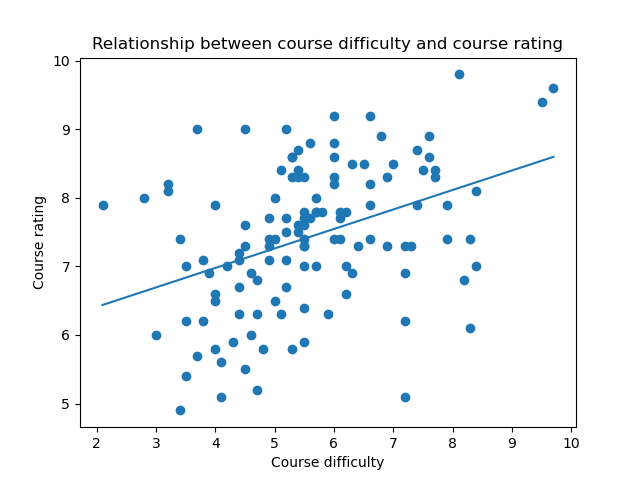
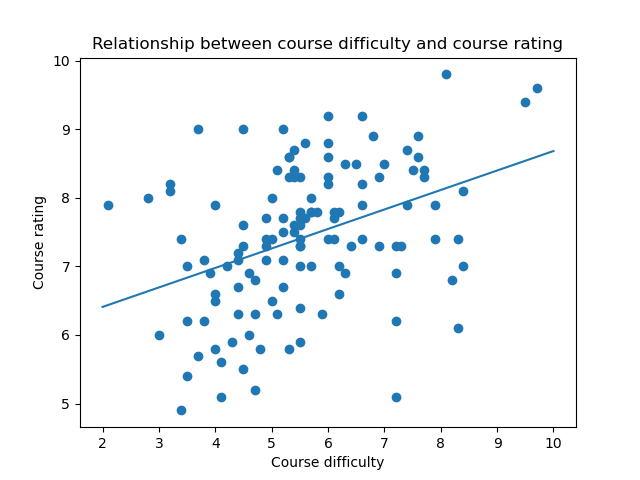
Update

diff --git a/ratings_analysis.py b/ratings_analysis.py
@@ -47,8 +47,15 @@ df_difficulty_percentiles.to_csv('difficulty_percentiles.csv')
 xset = df_ratings['course_difficulty']
 yset = df_ratings['course_rating']
 plt.scatter(xset,yset)
-plt.plot(np.unique(xset), np.poly1d(np.polyfit(xset, yset, 1))(np.unique(xset))) # From user '1"' at 
-# https://stackoverflow.com/a/31800660/13097194
+# The following lines of code determine the best fit line of the stock through a
+#linear regression analysis. 
+xreg = xset
+xreg = sm.add_constant(xreg)
+output = sm.OLS(yset,xreg)
+results = output.fit()
+xspace = np.linspace(2,10,2) # Only two x axis points are needed since the line will be linear.
+yspace = results.params[0] + results.params[1]*xspace # params[0] equals the intercept of the regression, and params [1] equals the coefficient, so this line simply plots the best fit line using the formula y = intercept + coefficient*x.
+plt.plot(xspace, yspace)
 plt.xlabel("Course difficulty") 
 # https://www.kite.com/python/answers/how-to-add-axis-labels-to-a-plot-in-matplotlib-in-python
 plt.ylabel("Course rating")
